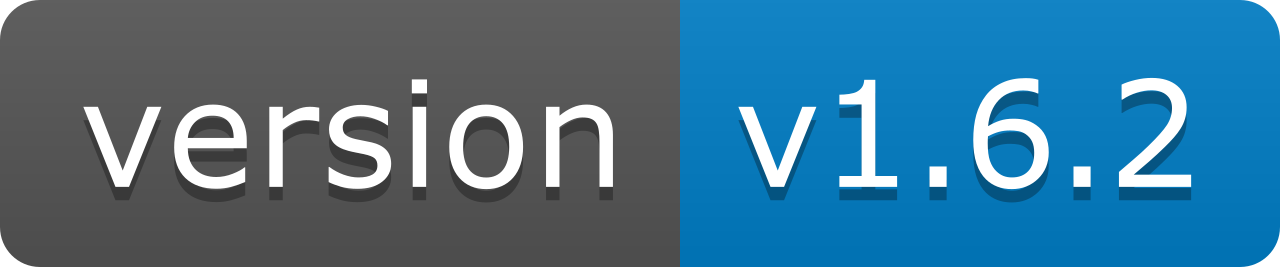
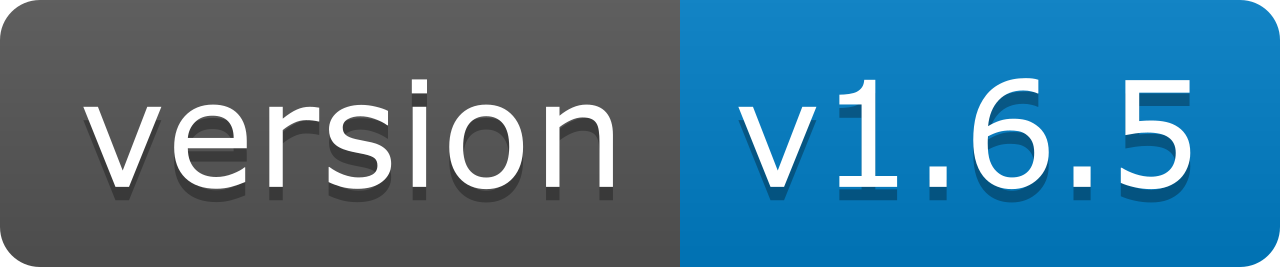
enhancement(typescript-server-plugin): typescript server plugin improvements and setting changes

Changed region(s): [[0.875, 0.2697, 0.9375, 0.7491], [0.875, 0.7491, 0.9062, 0.779]]

diff --git a/src/extension.ts b/src/extension.ts
@@ -57,7 +57,7 @@ export async function activate(context: ExtensionContext): Promise<void> {
       Settings.diagnostics = getSettings().get("diagnostics");
       Settings.baseDir = getSettings().get("baseDir");
       Settings.cssSyntaxColor = getSettings().get("cssSyntaxColor");
-      Settings.typecriptCleanUpDefs = getSettings().get("typecriptCleanUpDefs");
+      Settings.tsCleanUpDefs = getSettings().get("typecriptCleanUpDefs");
       Settings.cleanUpDefs = getSettings().get("cleanUpDefs");
       await syncTsPlugin();
     }
@@ -70,7 +70,7 @@ export async function activate(context: ExtensionContext): Promise<void> {
       tsAPi.configurePlugin("typescript-cleanup-definitions", {
         name: "typescript-cleanup-definitions",
         modules: Settings.cleanUpDefs,
-        enable: Settings.typecriptCleanUpDefs,
+        enable: Settings.tsCleanUpDefs,
       });
     }
   };

diff --git a/src/settings/index.ts b/src/settings/index.ts
@@ -87,12 +87,12 @@ export class Settings {
     workspace.getConfiguration(EXT_NAME).update("cssSyntaxColor", v);
   }
 
-  public get typecriptCleanUpDefs(): boolean | undefined {
-    return getSettings().get("typecriptCleanUpDefs");
+  public get tsCleanUpDefs(): boolean | undefined {
+    return getSettings().get("tsCleanUpDefs");
   }
 
-  public set typecriptCleanUpDefs(v: boolean | undefined) {
-    workspace.getConfiguration(EXT_NAME).update("typecriptCleanUpDefs", v);
+  public set tsCleanUpDefs(v: boolean | undefined) {
+    workspace.getConfiguration(EXT_NAME).update("tsCleanUpDefs", v);
   }
 
   public get cleanUpDefs(): Array<string> | undefined {

diff --git a/README.md b/README.md
@@ -1,10 +1,10 @@
-# React CSS modules
+<h1>React CSS modules</h1>
 
-<img height="24"  src="images/build.png" /> <img src="images/license.png" height="24" /> <img src="images/tests.png" height="24" />
-<img height="24" src="images/version.png" />
+<img height="24"  src="images/build.png" /> <a href="https://github.com/Viijay-Kr/react-ts-css/blob/main/LICENSE" target="__blank"><img src="images/license.png" height="24" /></a> <img src="images/tests.png" height="24" />
+<a href="https://marketplace.visualstudio.com/items?itemName=viijay-kr.react-ts-css" target="__blank"><img height="24" src="images/version.png" /></a>
 
 VS Code extension that enables CSS modules IntelliSense for your React projects written in TypeScript.
-Currently supports CSS, SCSS, Less modules with the following capabilities
+Currently supports CSS, SCSS, Less modules 
 
 This extension also supports CSS language features which are not supported by built in vscode [code css langauge fetures](https://github.com/microsoft/vscode-css-languageservice). Check [CSS language features](#css-langauge-features) for more info
 
@@ -21,6 +21,23 @@ This extension also supports CSS language features which are not supported by bu
 > This extension gives you an option to eliminate the useless results by using the TypeScript plugin [typescript-cleanup-defs](https://www.npmjs.com/package/typescript-cleanup-definitions) that can filter out those definitions results. Check the plugin for more details.
 >
 > Override this plugin using the setting `reactTsScss.typecriptCleanUpDefs`
+
+
+<h2>Capabilities</h2>
+
+- [TS/TSX Language Features](#tstsx-language-features)
+  - [Definitions](#definitions)
+  - [Hover](#hover)
+  - [Completions](#completions)
+  - [Diagnostics](#diagnostics)
+  - [Code Actions](#code-actions)
+- [CSS Langauge Features](#css-langauge-features)
+  - [Variable Completion](#variable-completion)
+  - [Variable Definitions](#variable-definitions)
+  - [Syntax Colors and Presentation](#syntax-colors-and-presentation)
+- [Casings](#casings)
+- [Settings](#settings)
+- [Roadmap](#roadmap)
 
 ## TS/TSX Language Features
 ### [Definitions](https://code.visualstudio.com/api/references/vscode-api#DefinitionProvider)
@@ -66,8 +83,9 @@ This extension also supports CSS language features which are not supported by bu
 This extensions supports selectors written in:
 
 1. snake_case
-2. camelCase 
-3. kebab-case
+2. PascalCase
+3. camelCase 
+4. kebab-case
 
 ## Settings
 
@@ -85,11 +103,13 @@ Defaults
   "reactTsCSS.cssAutoComplete":true, 
   "reactTsCSS.cssDefinitions":true, 
   "reactTsCSS.cssSyntaxColor":true, 
-  "reactTsCSS.typecriptCleanUpDefs":true, 
+  "reactTsCSS.tsCleanUpDefs":true, 
   "reactTsCSS.cleanUpDefs": [
-     "node_modules/vite/client.d.ts",
-    "node_modules/next/types/global.d.ts",
-    "node_modules/react-scripts/lib/react-app.d.ts"
+      "*.module.css",
+      "*.module.scss",
+      "*.module.sass",
+      "*.module.less",
+      "*.module.styl"
   ]
 }
 ```

diff --git a/CHANGELOG.md b/CHANGELOG.md
@@ -1,3 +1,9 @@
+## [1.6.5]
+- Update typescript clean up definitions plugin
+  - Refinement of definitions results by the plugin - See [#1](https://github.com/Viijay-Kr/typescript-cleanup-defs/pull/1)
+- Changes to existings settings
+  - `typecriptCleanUpDefs` is changed to `tsCleanUpDefs`
+  - `cleanUpDefs` now takes a list of module extensions as default values
 ## [1.6.4]
 - Not ignoring node_modules from .vscodeignore - May be Closes [#68](https://github.com/Viijay-Kr/react-ts-css/issues/68)
 ## [1.6.3]
